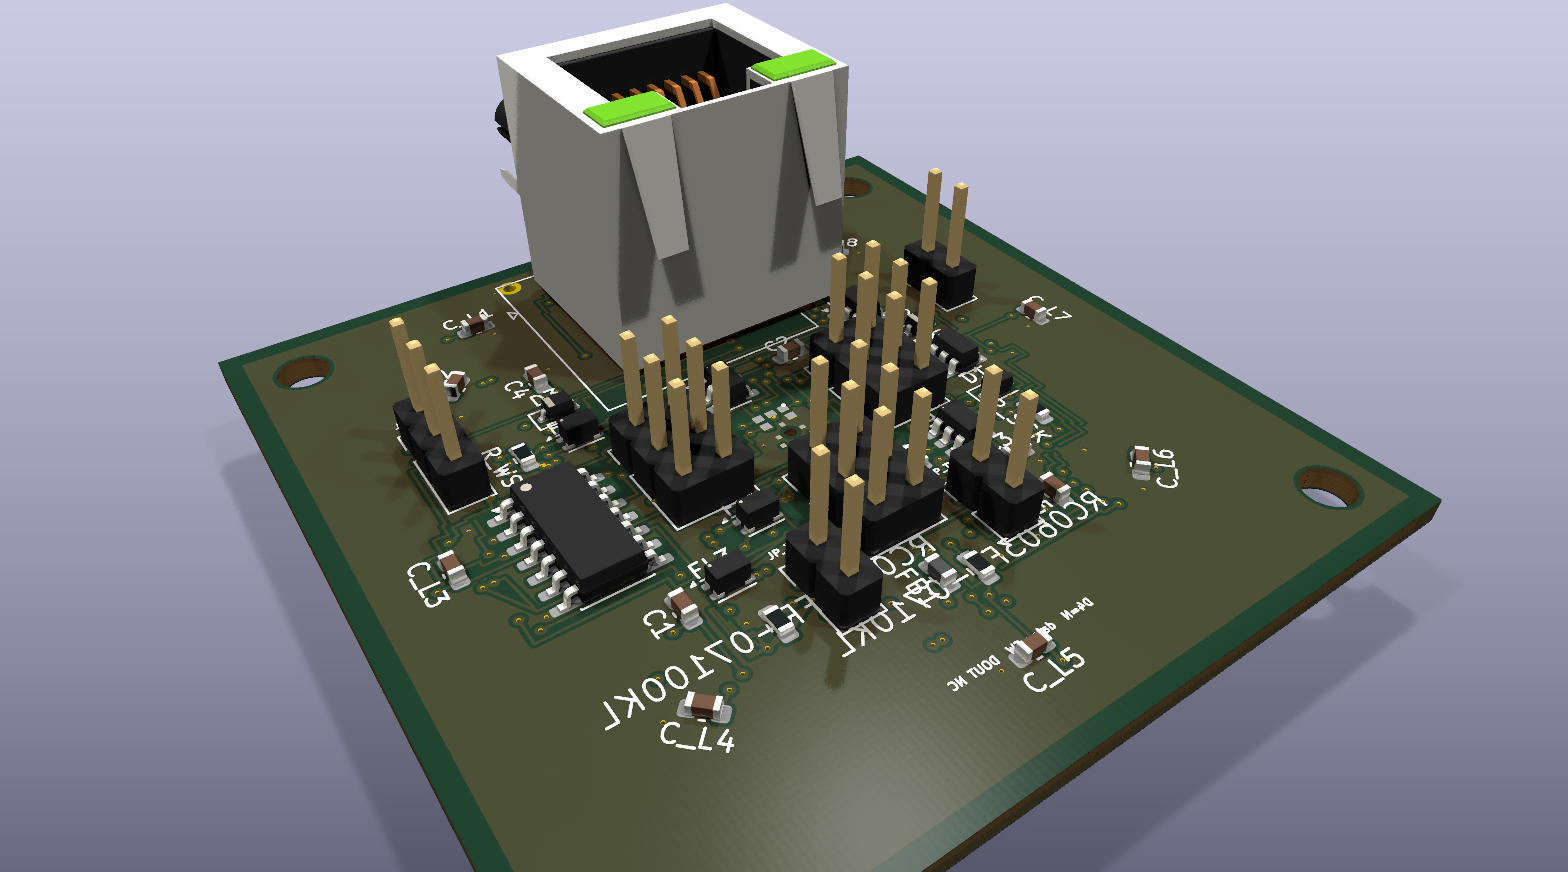
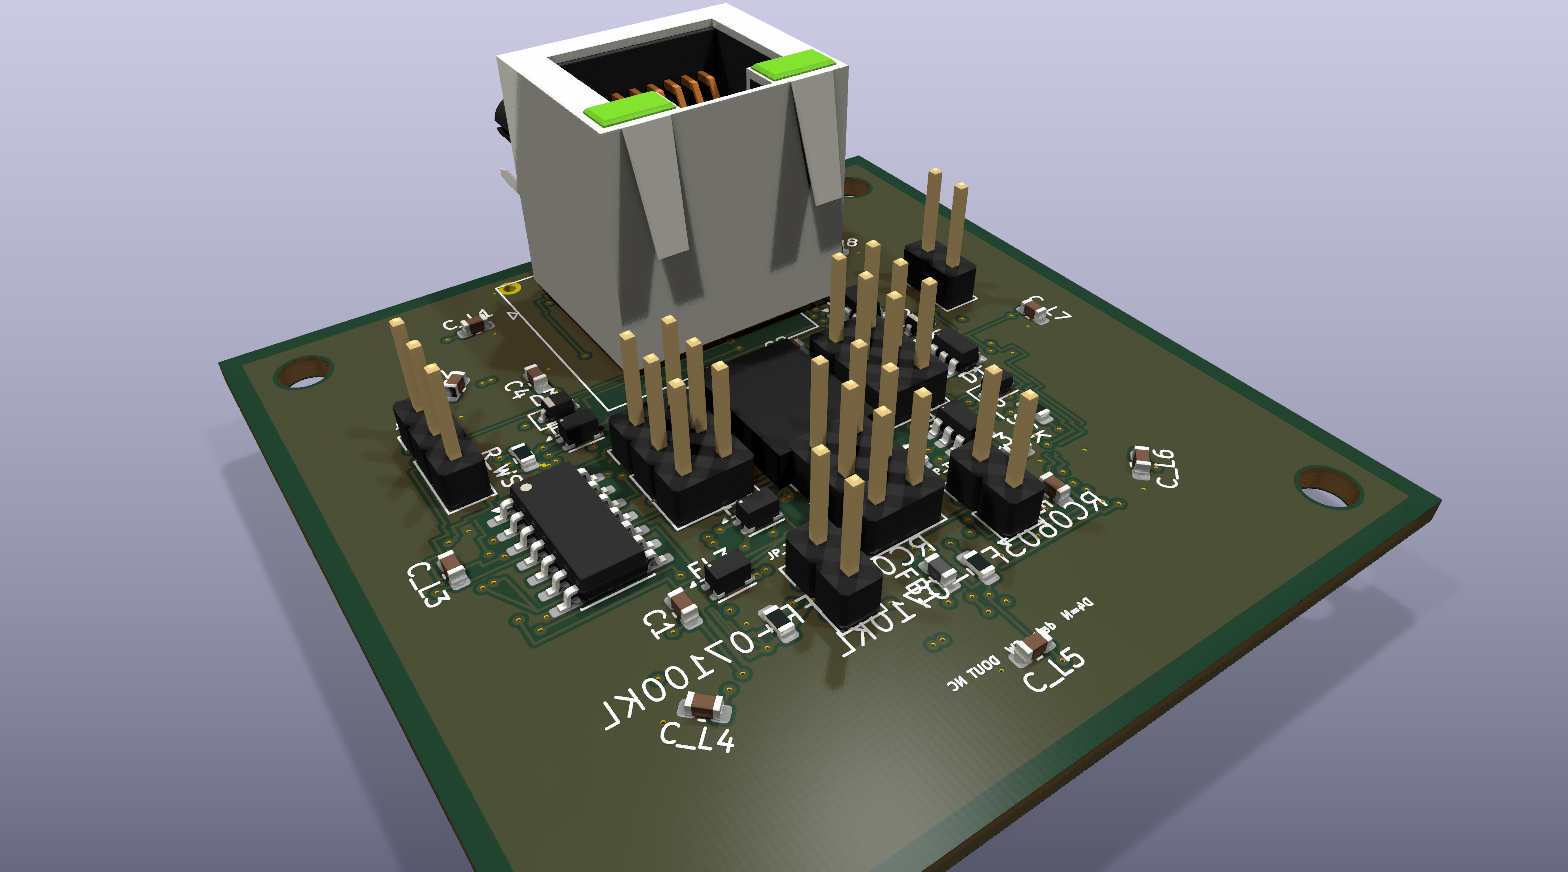
Document the satellite jumpers and show the MEMS microphone.
The assembly note lists which shunt row selects LVDS, 3.3 V and 1.8 V, and the order of soldering. The T5848 body is in the 3D preview. The check of v7.4.0 copper stays: no shorts, clearance and open pairs still block fabrication.

Changed region(s): [[0.4375, 0.3716, 0.5625, 0.5573]]

diff --git a/docs/SATELIT.md b/docs/SATELIT.md
@@ -1,0 +1,88 @@
+# Satelit — propojky, osazení a kontrola v7.4.0
+
+Deska je čtverec 52 × 52 mm, 8 vrstev. Mikrofon T5848 je ve středu, kruh 8× SK6812 je na venkovní straně. Svislý RJ45, T5848 a všechny propojky jsou na zadní straně. Sever desky je hrana u RJ45.
+
+Na každém hřebínku 2×3 je v jednu chvíli **jen jedna** vodorovná propojka. Dva řádky naráz spojí výstup přijímače s kabelem.
+
+Pin 1 je čtvercový a je na severovýchodním rohu hřebínku. Řádky jdou od severu k jihu.
+
+## Tři režimy linky
+
+Současné Core mluví diferenciálně (LVDS, 3,3 V na budiči). Režim 1,8 V chce na druhém konci kabelu 1,8 V, GPIO RP2350B to není.
+
+| Režim | `JP_SCK` a `JP_WS` | `JP_SD` | `JP_TSCK`, `JP_TWS` | `JP_SDN` | `JP_OE` |
+|---|---|---|---|---|---|
+| Diferenciální LVDS | sever, piny 1–2 | sever, piny 1–2 | osazené | 1–2 | volná |
+| Jednostranných 3,3 V | střed, piny 3–4 | střed, piny 3–4 | volné | 2–3 | volná |
+| Přímo 1,8 V | jih, piny 5–6 | jih, piny 5–6 | volné | 2–3 | osazená |
+
+`JP_OE` spojuje `OE` překladače na GND, takže ho vypne. Bez ní drží `OE` nahoře rezistor 10 kΩ.
+
+## Co která propojka dělá
+
+Hodiny a word select jedou z Core na satelit. Data mikrofonu jedou opačně.
+
+### `JP_SCK` a `JP_WS` — hřebínek 2×3
+
+| Řádek | Piny | `JP_SCK` | `JP_WS` |
+|---|---|---|---|
+| sever | 1–2 | výstup přijímače `SCK_LVDS` na překladač `SCK_3V3` | totéž pro `WS` |
+| střed | 3–4 | kladná žíla kabelu `SCK_P` na překladač | totéž pro `WS_P` |
+| jih | 5–6 | kladná žíla kabelu přímo na vývod mikrofonu `SCK` | totéž pro `WS` |
+
+Přijímač SN65LVDS2 je na páru pořád. Propojka jen rozhodne, jestli na mikrofon půjde jeho CMOS výstup, kabel přes překladač, nebo kabel přímo.
+
+### `JP_SD` — hřebínek 2×3, data ven z mikrofonu
+
+| Řádek | Piny | Spojí |
+|---|---|---|
+| sever | 1–2 | kladný výstup budiče `SD_Y` na kladnou žílu `SD_P` |
+| střed | 3–4 | 3,3 V z překladače `SD_3V3` na kladnou žílu |
+| jih | 5–6 | vývod mikrofonu `SD` přímo na kladnou žílu |
+
+### `JP_SDN` — hřebínek 1×3, záporná žíla
+
+Pin 1 je sever, `SD_Z`. Pin 2 je `SD_N`. Pin 3 je GND.
+
+- 1–2: záporný výstup budiče na zápornou žílu. Jen diferenciální režim.
+- 2–3: záporná žíla na GND. Jednostranné režimy, zpátečka je stínění a zem.
+
+### `JP_TSCK` a `JP_TWS` — hřebínek 1×2
+
+Spojí 100 Ω mezi `SCK_T` a `SCK_N`, respektive `WS_T` a `WS_N`. SN65LVDS2 nemá vnitřní zakončení. V jednostranném režimu propojka zůstane volná, ať budič nevidí 100 Ω.
+
+### `JP_OE` — hřebínek 1×2
+
+Pin 1 je GND, pin 2 je `OE`. Osazená jen v režimu 1,8 V.
+
+Napájení T5848 je ve všech režimech 1,62–1,98 V z AP2112K-1.8. Na mikrofon se 3,3 V nedává.
+
+## Postup osazení
+
+1. Akustický otvor 0,8 mm uprostřed desky musí zůstat volný. Na otvor nepřijde pasta ani cín. Tělo T5848 má port proti desce, ne ven.
+2. Nejdřív zadní strana. Je na ní víc součástek, včetně `MK1`. Šablona, osazení, přetavení. Pin 1 mikrofonu je západní ploška řady blíž k RJ45, síť `WS`. Bílá tečka na 3D těle je u tohoto rohu.
+3. Pak venkovní strana: jen `D4`–`D11`. `D4` je pixel 0 a je to LED nejblíž RJ45. Řetěz jde po kruhu, poslední `DOUT` je volný.
+4. Ručně svislý RJ45 `J1`. Osa zástrčky je kolmo k desce. Oba vývody stínění jsou GND a pájí se.
+5. Ručně hřebínky. Do stroje nepatří `J1` ani žádný `JP_*`.
+6. Propojky až podle tabulky režimů. Na 2×3 vždy jeden řádek. Diferenciální sada pro kabel na současné Core: severní řádek všech tří 2×3, obě 100 Ω, `JP_SDN` 1–2, `JP_OE` volná.
+7. Kontrola: v otvoru mikrofonu není cín, stínění RJ45 má spoj na GND, na mikrofonu není 3,3 V.
+
+Stroj osadí zbytek z obou stran. Rozpis LCSC je v [kicad/jlc/OSAZENI.md](../kicad/jlc/OSAZENI.md). SK6812 na 3,3 V je pod katalogovým rozsahem 3,7–5,5 V; na desce jiné napájení LED není.
+
+## Vyrobitelnost, funkce, indukce a rušení
+
+Rozměr 52 × 52 mm, 8 vrstev, ENIG, prokov 0,60/0,20 mm a tloušťka 1,6 mm jsou v běžné nabídce JLC. Otvor mikrofonu je nepokovený 0,8 mm. Oboustranné osazení je v nastavení zakázky.
+
+Měď v7.4.0 po přesunu součástek **není hotová k objednání**. DRC satelitu je 0 zkratů, 36 porušených mezer a 66 otevřených párů. Mezera je výrobní vada, otevřený pár znamená, že část ochrany a signálu v mědi chybí. Core a silové desky se tímto krokem neměnily.
+
+Zapojení ve schématu je pro tři režimy soudržné, pokud je na každém 2×3 jen jeden řádek a T5848 zůstane na 1,8 V. Gerber z tohoto commitu tu měď ještě nemá dotaženou, takže deska jako celek nezapne.
+
+Odolnost proti indukci a vf rušení je v návrhu postavená takto:
+
+- 8 vrstev, souvislá zem na L2, L5 a L7, signál mezi zememi.
+- Diferenciální režim vozí hodiny a data po LVDS na STP. Stínění je GND na satelitu i na Core, jednostranný režim má kudy zpátky.
+- Společná tlumivka na SCK, WS i SD, TVS s malou kapacitou napříč párem, 100 Ω jen když je propojka zakončení nasazená.
+- 3,3 V do satelitu jde přes PPTC a ferit 600 Ω.
+- RJ45 je u mikrofonu, smyčka na desce je krátká. To indukci pomůže, až budou ty sítě spojené.
+
+Jednostranné režimy jsou proti indukci horší než LVDS. Režim 1,8 V se současným Core nepoužívá. Dokud není měď dotažená, tlumivky a TVS v obvodu nejsou.

diff --git a/kicad/README.md b/kicad/README.md
@@ -30,7 +30,7 @@ Jen sekundár CT/Rogowski. GDT, TVS, LC, THT burden 100 Ω, crowbar ~25 V, USB-C
 
 ## Satelit
 
-Deska je 8 vrstev. RJ45 stojí ze zadní strany, osa zástrčky je kolmá k desce. Režim linky volí jedna vodorovná propojka. `JP_SCK`, `JP_WS` a `JP_SD` jsou hřebínky 2×3 na spodní straně, pin 1 (čtvercový) je severovýchodní. Severní řádek je diferenciální LVDS, prostřední je jednostranných 3,3 V přes `TXS0104E`, jižní je 1,8 V přímo na T5848. `JP_T*` jen u diferenciálního režimu (100 Ω). `JP_SDN` 1–2 je záporný vývod budiče, 2–3 dává zápornou žílu na zem. `JP_OE` se nasazuje jen v režimu 1,8 V a vypne překladač. T5848 zůstává na 1,62–1,98 V. Stínění RJ45 je na satelitu na GND. Deska je 8 vrstev, signály jsou spojené. DRC nemá zkrat ani mezeru. Dva záznamy jsou roh zemních zón. Náhled je v [`docs/img/v490/`](../docs/img/v490/). ENIG, ≥ 0603.
+Deska je čtverec 52 × 52 mm, 8 vrstev. RJ45 stojí ze zadní strany, osa zástrčky je kolmá k desce, tělo je hned u mikrofonu. Režim linky volí jedna vodorovná propojka na 2×3. Pin 1 je severovýchodní. Severní řádek je diferenciální LVDS, prostřední je 3,3 V přes `TXS0104E`, jižní je 1,8 V přímo na T5848. Tabulka a postup osazení jsou v [docs/SATELIT.md](../docs/SATELIT.md). T5848 zůstává na 1,62–1,98 V. Stínění RJ45 je na GND. Po přesunu na čtverec DRC nemá zkrat; zůstává 36 mezer a 66 otevřených párů. Náhled s tělem mikrofonu je v [`docs/img/v740/`](../docs/img/v740/). ENIG, ≥ 0603.
 
 ## Výroba
 

diff --git a/README.md b/README.md
@@ -14,7 +14,7 @@ v4 je sada **Core 8L + vyměnitelná silová deska + šest satelitů**. Na měď
 
 **Silová deska** má tři SKU se stejným interconnectem 2×10: NN (multiplex CT), VN (silnější GDT/TVS), VVN (harvest CT + Rogowski). Společný front-end je jen sekundár: GDT, TVS, LC, burden, crowbar, MPPT, článek 21700 (LiFePO4/LTO), 5 V a vždyživý `+3V3_RF`.
 
-**Satelit** je šest čtverců 52 × 52 mm, 8L. Mikrofon je uprostřed, kolem něj kruh **8× SK6812**. Svislý RJ45 a konfigurační propojky jsou na zadní straně co nejblíž středu. Režim linky volí propojka: diferenciální LVDS, jednostranných 3,3 V, nebo 1,8 V přímo na T5848. Mapa [`docs/PINOUT_SAT_v4.csv`](docs/PINOUT_SAT_v4.csv).
+**Satelit** je šest čtverců 52 × 52 mm, 8L. Mikrofon je uprostřed, kolem něj kruh **8× SK6812**. Svislý RJ45 a konfigurační propojky jsou na zadní straně co nejblíž středu. Režim linky volí propojka: diferenciální LVDS, jednostranných 3,3 V, nebo 1,8 V přímo na T5848. Význam propojek a postup osazení: [docs/SATELIT.md](docs/SATELIT.md). Mapa [`docs/PINOUT_SAT_v4.csv`](docs/PINOUT_SAT_v4.csv).
 
 ## Prototyp
 

diff --git a/kicad/jlc/OSAZENI.md b/kicad/jlc/OSAZENI.md
@@ -16,9 +16,9 @@ Mimo stroj:
 
 ## Satelit
 
-40 součástek. Horní strana: `D4`–`D11` (SK6812). Dolní strana: ostatní, včetně `MK1` T5848 (`MMICT5848-00-012`, C20344623).
+40 součástek na čtverci 52 × 52 mm. Horní strana: `D4`–`D11` (SK6812). Dolní strana: ostatní, včetně `MK1` T5848 (`MMICT5848-00-012`, C20344623). Port mikrofonu jde proti desce, pasta na akustický otvor nepatří.
 
-Mimo stroj jsou svislý RJ45 `J1` a propojky `JP_SCK`, `JP_WS`, `JP_SD`, `JP_SDN`, `JP_TSCK`, `JP_TWS`, `JP_OE`. Propojka se připájí až podle režimu linky.
+Mimo stroj jsou svislý RJ45 `J1` a propojky `JP_SCK`, `JP_WS`, `JP_SD`, `JP_SDN`, `JP_TSCK`, `JP_TWS`, `JP_OE`. Pořadí pájení a který řádek propojky patří ke kterému režimu je v [docs/SATELIT.md](../../docs/SATELIT.md).
 
 Úpravy proti původnímu MPN, protože pouzdro na desce je jiné, nebo katalog ten řetězec nemá:
 

diff --git a/CHANGELOG.md b/CHANGELOG.md
@@ -2,7 +2,13 @@
 
 Formát podle [Keep a Changelog](https://keepachangelog.com/cs/1.1.0/), verze podle [SemVer](https://semver.org/lang/cs/).
 
-Tento soubor drží řadu **4.x** až **7.4.0**. Starší tagy `v1.1.1` … `v3.0.0` zůstávají v gitu.
+Tento soubor drží řadu **4.x** až **7.4.1**. Starší tagy `v1.1.1` … `v3.0.0` zůstávají v gitu.
+
+## [7.4.1] — 2026-11-26
+
+### Added
+
+- [docs/SATELIT.md](docs/SATELIT.md): význam propojek, tři režimy linky a postup osazení. 3D náhled satelitu má tělo T5848. Kontrola v7.4.0: rozměr je vyrobitelný, měď má 0 zkratů, 36 mezer a 66 otevřených párů, takže deska ještě není funkční ani objednatelná. Návrh LVDS, tlumivek, TVS a stínění na GND indukci míří, v mědi to ještě není spojené.
 
 ## [7.4.0] — 2026-11-26
 
